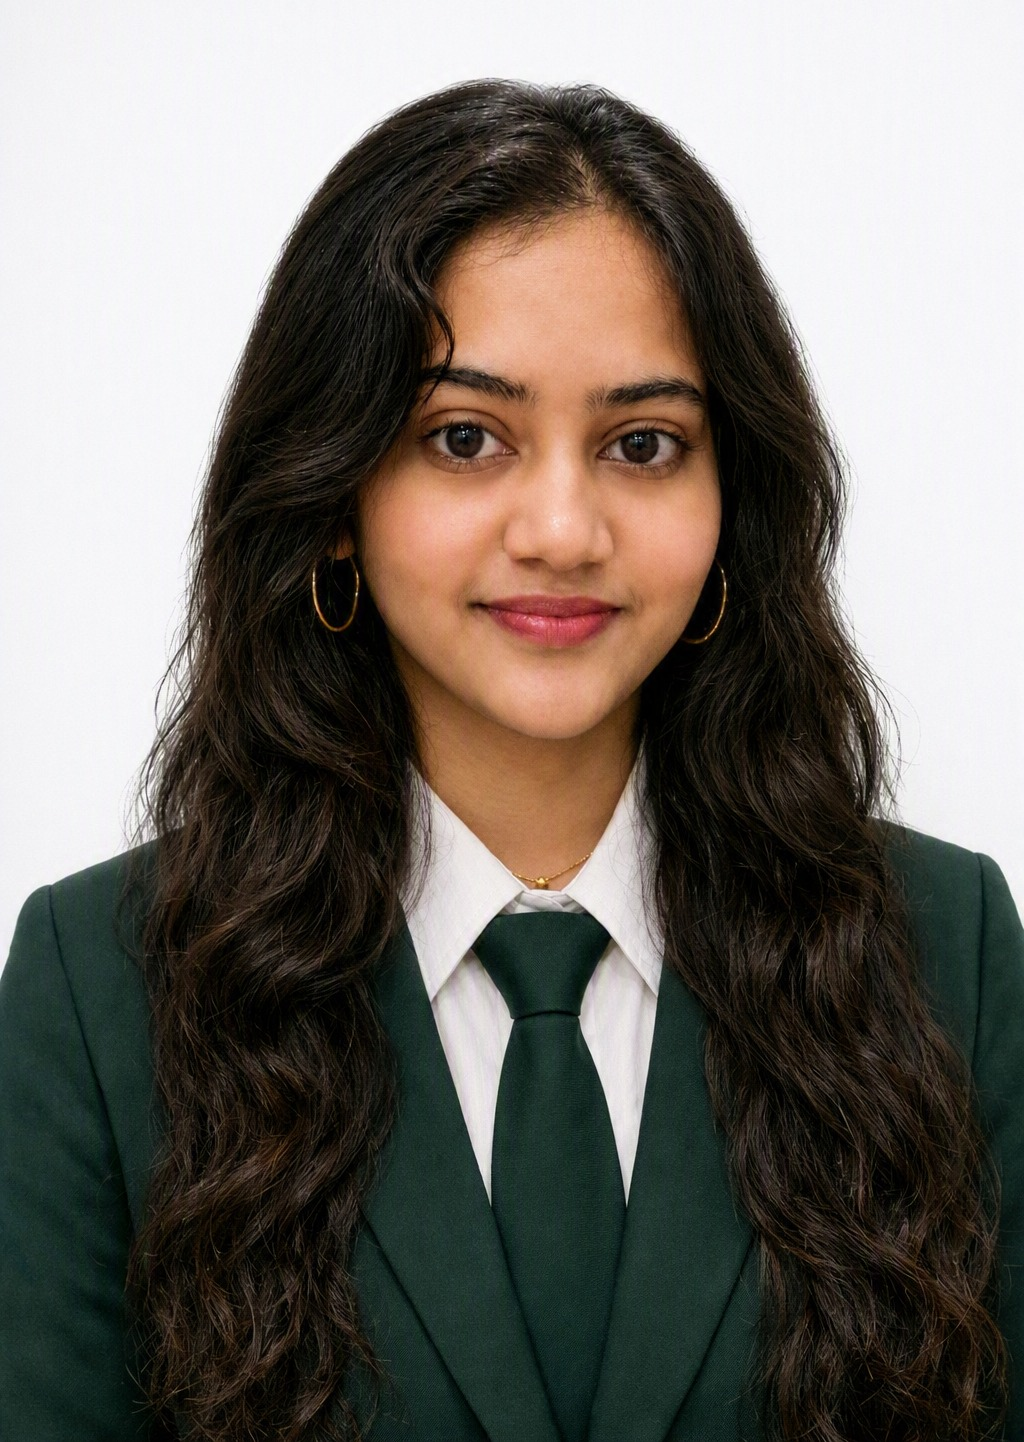
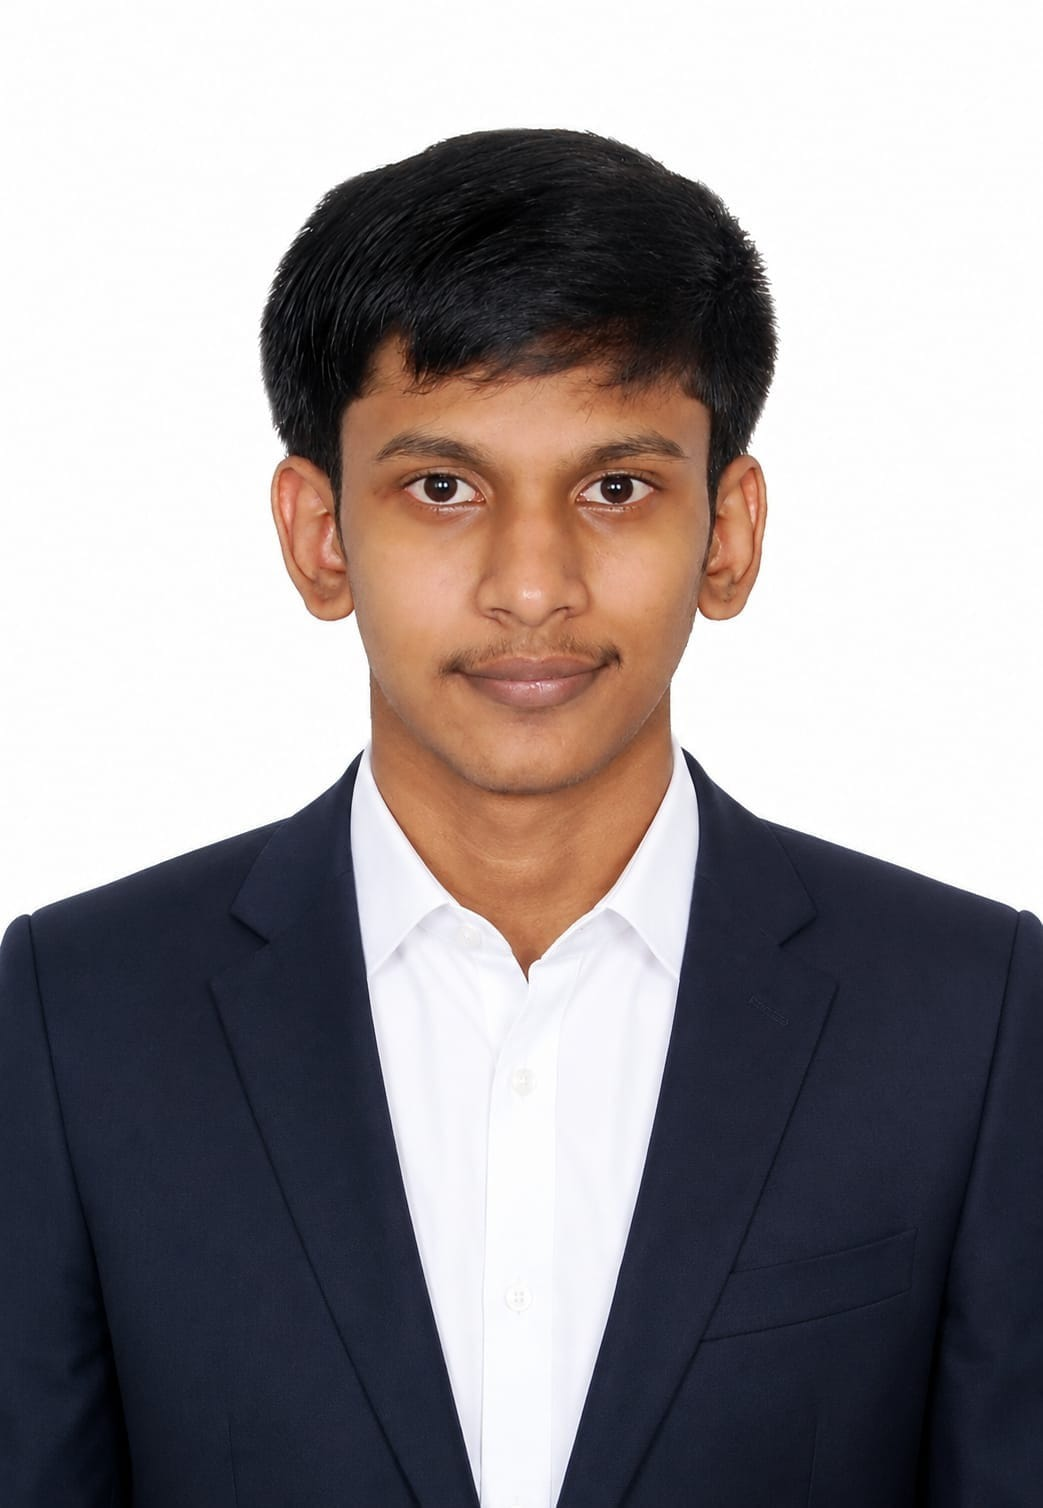
updated team details

diff --git a/src/data/teamData.ts b/src/data/teamData.ts
@@ -76,6 +76,7 @@ export const leadership: Person[] = [
 
     github: "https://github.com/riddzzz849",
     linkedin: "https://www.linkedin.com/in/riddhima-utreja-898260334",
+    instagram:"https://www.instagram.com/riddhima._.29",
   },
 
   {
@@ -97,6 +98,7 @@ export const leadership: Person[] = [
 
     github: "https://github.com/",
     linkedin: "https://www.linkedin.com/in/bindhu-rekha-597b16376",
+    instagram:"https://www.instagram.com/bindhu.uuu",
   },
 ];
 
@@ -141,6 +143,7 @@ export const departments: Department[] = [
 
       github: "https://github.com/durgaprajapati083",
       linkedin: "https://www.linkedin.com/in/durga-prajapati-0692b1247",
+      instagram:"https://www.instagram.com/durgaprajapati067",
     },
 
     /* -----------------------------
@@ -163,7 +166,7 @@ export const departments: Department[] = [
         image:
           "/images/team/members/technical-1.jpeg",
         github: "https://github.com/Rakesh20050",
-  linkedin: "https://www.instagram.com/rakeshshah3358",
+  linkedin: "https://www.linkedin.com/in/rakesh-kumar-shah",
   instagram:"https://www.instagram.com/rakeshshah3358"
       },
 
@@ -172,7 +175,7 @@ export const departments: Department[] = [
         role: "Developer",
         image:
           "/images/team/members/technical-2.jpg",
-              
+        github: "https://github.com/deeprajkumargupta",     
        linkedin: "https://www.linkedin.com/in/deeprajkumargupta/",
        instagram:"https://www.instagram.com/deepraj_.05/",
       },
@@ -197,19 +200,10 @@ export const departments: Department[] = [
   instagram:"https://www.instagram.com/deeksha.sk_",
       },
       {
-        name: "Anshika Singh",
-        role: "Developer",
-        image:
-          "/images/team/members/technical-6.jpeg",
-            github: "https://github.com/anshika27official",
-          linkedin: "https://www.linkedin.com/in/anshika-singh-14b74638b",
-          instagram:"https://www.instagram.com/bookmaniax"
-      },
-      {
         name: "Sharath",
         role: "Developer",
         image:
-          "/images/team/members/technical-7.jpeg",
+          "/images/team/members/technical-6.jpeg",
              github: "https://github.com/sharathswaroop-dev",
           linkedin: "http://www.linkedin.com/in/sharath-swaroop-m-179a9a379",
           instagram:"https://www.instagram.com/sharathswaroop_m?stkn=dmpmcWIxNm95ejZn"
@@ -264,21 +258,12 @@ export const departments: Department[] = [
     ----------------------------- */
 
     members: [
-      {
-        name: "Punith S",
-        role: "R&D Lead",
-        image:
-          "/images/team/rnd1-lead.jpg",
-        github: "https://github.com/punithsuresh18",
-      linkedin: "https://www.linkedin.com/in/punith-s-630339392",
-      instagram:"https://www.instagram.com/punithsuresh18/"
-      },
-
+      
       {
         name: "Gnanesh M V",
         role: "R&D Member",
         image:
-          "/images/team/members/rd-2.jpg",
+          "/images/team/members/rd-1.jpg",
          github: "https://github.com/Gnani66",
       linkedin: "https://in.linkedin.com/in/gnanesh-mv",
       instagram:"https://www.instagram.com/gnanesh_.66"
@@ -288,89 +273,32 @@ export const departments: Department[] = [
         name: "Roshan Zameer Y A",
         role: "R&D  Member",
         image:
-          "/images/team/members/rd-3.jpg",
+          "/images/team/members/rd-2.jpg",
          github: "https://github.com/rzoshan46-del",
       linkedin: "https://www.linkedin.com/in/roshan-zameer-652757381",
       instagram:"https://www.instagram.com/_.roshannnnn"
       },
-    ],
-  },
-   /* =======================================================
-     R&D TEAM
-  ======================================================= */
-
-  {
-    name: "R&D TEAM",
-    shortName: "R&D",
-
-    accent: "green",
-
-    description:
-      "Explores emerging technologies, researches ideas, and experiments with innovative solutions.",
-
-    /* -----------------------------
-       R&D LEAD
-    ----------------------------- */
-
-    lead: {
-      name: "Punith S.",
-      role: "R&D Lead",
-      image: "/images/team/rnd1-lead.jpg",
-      backgroundImage:
-        "/images/team/backgrounds/rnd-bg.jpg",
-
-      description:
-        "Leads research and experimentation within OSCODE CIT, exploring emerging technologies and turning interesting ideas into practical solutions.",
-
-      skills: [
-        "Research",
-        "AI & ML",
-        "Innovation",
-        "Experimentation",
-      ],
-
-      github: "https://github.com/punithsuresh18",
-      linkedin: "https://www.linkedin.com/in/punith-s-630339392",
-    },
-
-    /* -----------------------------
-       R&D TEAM MEMBERS
-       
-       Punith S is included here as
-       another R&D team member.
-    ----------------------------- */
-members: [
       {
-        name: "Punith S",
-        role: "R&D Lead",
-        image:
-          "/images/team/rnd1-lead.jpg",
-        github: "https://github.com/punithsuresh18",
-      linkedin: "https://www.linkedin.com/in/punith-s-630339392",
-      instagram:"https://www.instagram.com/punithsuresh18/"
-      },
-
-      {
-        name: "Gnanesh M V",
-        role: "R&D Member",
-        image:
-          "/images/team/members/rd-2.jpg",
-         github: "https://github.com/Gnani66",
-      linkedin: "https://in.linkedin.com/in/gnanesh-mv",
-      instagram:"https://www.instagram.com/gnanesh_.66"
-      },
-
-      {
-        name: "Roshan Zameer Y A",
+        name: "Snigdha GL",
         role: "R&D  Member",
         image:
           "/images/team/members/rd-3.jpg",
-         github: "https://github.com/rzoshan46-del",
-      linkedin: "https://www.linkedin.com/in/roshan-zameer-652757381",
-      instagram:"https://www.instagram.com/_.roshannnnn"
+         github: "https://github.com/aoiyuki0",
+      linkedin: "https://www.linkedin.com/in/snigdha-lohith-5b2547384/",
+      instagram:"https://www.instagram.com/__snigdha_0/"
+      },
+      {
+        name: "Soibam Erica Chanu",
+        role: "R&D  Member",
+        image:
+          "/images/team/members/rd-4.jpg",
+         github: "https://github.com/ericasoibam",
+      linkedin: "https://www.linkedin.com/in/erica-soibam-6b0595382",
+      instagram:"https://www.instagram.com/lun_essence__"
       },
     ],
   },
+   
   /* =======================================================
      EVENT TEAM
   ======================================================= */
@@ -408,6 +336,7 @@ members: [
 
       github: "https://github.com/AishwaryaGadela",
       linkedin: "https://www.linkedin.com/in/aishwarya-gadela-4772b2261",
+      instagram:"https://www.instagram.com/aishwarya_gadela",
     },
 
     /* -----------------------------
@@ -416,24 +345,33 @@ members: [
 
     members: [
       {
-        name: "Event Member 1",
-        role: "Event Coordinator",
+        name: "Likisha Varshini",
+        role: "Event team member",
         image:
-          "/images/team/members/event-1.jpg",
+          "/images/team/members/event-1.jpeg",
+          github:"https://github.com/likishavarshini",
+      linkedin:"https://www.linkedin.com/in/likisha-varshini-25664738b/",
+      instagram:"https://www.instagram.com/likisha._.varshini_",
       },
 
       {
-        name: "Event Member 2",
-        role: "Coordinator",
+        name: "Jeevanya D",
+        role: "Event team member",
         image:
-          "/images/team/members/event-2.jpg",
+          "/images/team/members/event-2.JPG",
+          github:"https://github.com/Jeevanya19",
+      linkedin:"https://www.linkedin.com/in/jeevanya-devaraj-648348381",
+      instagram:"https://www.instagram.com/jeevanyaaa?stkn=YmxtOWhjMnZ0NDBs",
       },
 
       {
-        name: "Event Member 3",
-        role: "Volunteer",
+        name: "Smruthi Shreehari",
+        role: "Event team member",
         image:
-          "/images/team/members/event-3.jpg",
+          "/images/team/members/event-3.jpeg",
+          github:"https://github.com/smruthishreehari07",
+      linkedin:"www.linkedin.com/in/smruthishreehari",
+      instagram:"https://www.instagram.com/s.m.ruthi?stkn=emkyZW4wc2R2YXN2",
       },
     ],
   },
@@ -442,7 +380,7 @@ members: [
   ======================================================= */
 
   {
-    name: "SOCIAL MEDIA TEAM",
+    name: "SOCIAL MEDIA  AND DESIGN TEAM",
     shortName: "Social",
 
     accent: "cyan",
@@ -474,6 +412,7 @@ members: [
 
       github: "https://github.com/lipikashree28-hue",
       linkedin: "https://www.linkedin.com/in/lipika-shree-98009b386",
+      instagram:"https://www.instagram.com/lipika_shree28",
     },
 
     /* -----------------------------
@@ -509,6 +448,33 @@ members: [
             github: "https://github.com/",
       linkedin: "https://www.linkedin.com/in/anubhab-ray-058126318/",
       instagram:"https://www.instagram.com/_anubhabray"
+      },
+      {
+        name: "Anshika Singh",
+        role: "Design team Member",
+        image:
+          "/images/team/members/design-1.jpeg",
+            github: "https://github.com/anshika27official",
+      linkedin: "https://www.linkedin.com/in/anshika-singh-14b74638b",
+      instagram:"https://www.instagram.com/bookmaniax",
+      },
+      {
+        name: "Shilpa T",
+        role: "Design team Member",
+        image:
+          "/images/team/members/design-2.jpg",
+            github: "https://github.com/ShilpaT06",
+      linkedin: "https://www.linkedin.com/in/shilpa-t-97b4a2333",
+      instagram:"https://www.instagram.com/shilpa_thimmaraju?igsh=MTZiM3czdWl2Z3d0cQ==",
+      },
+      {
+        name: "Aadya ravikumar",
+        role: "Design team Member",
+        image:
+          "/images/team/members/design-3.png",
+            github: "https://github.com/aadyaravi1309-wq",
+      linkedin: "https://www.linkedin.com/in/aadya-ravikumar-44aa56388",
+      instagram:"https://www.instagram.com/aady_2080",
       },
     ],
   },
